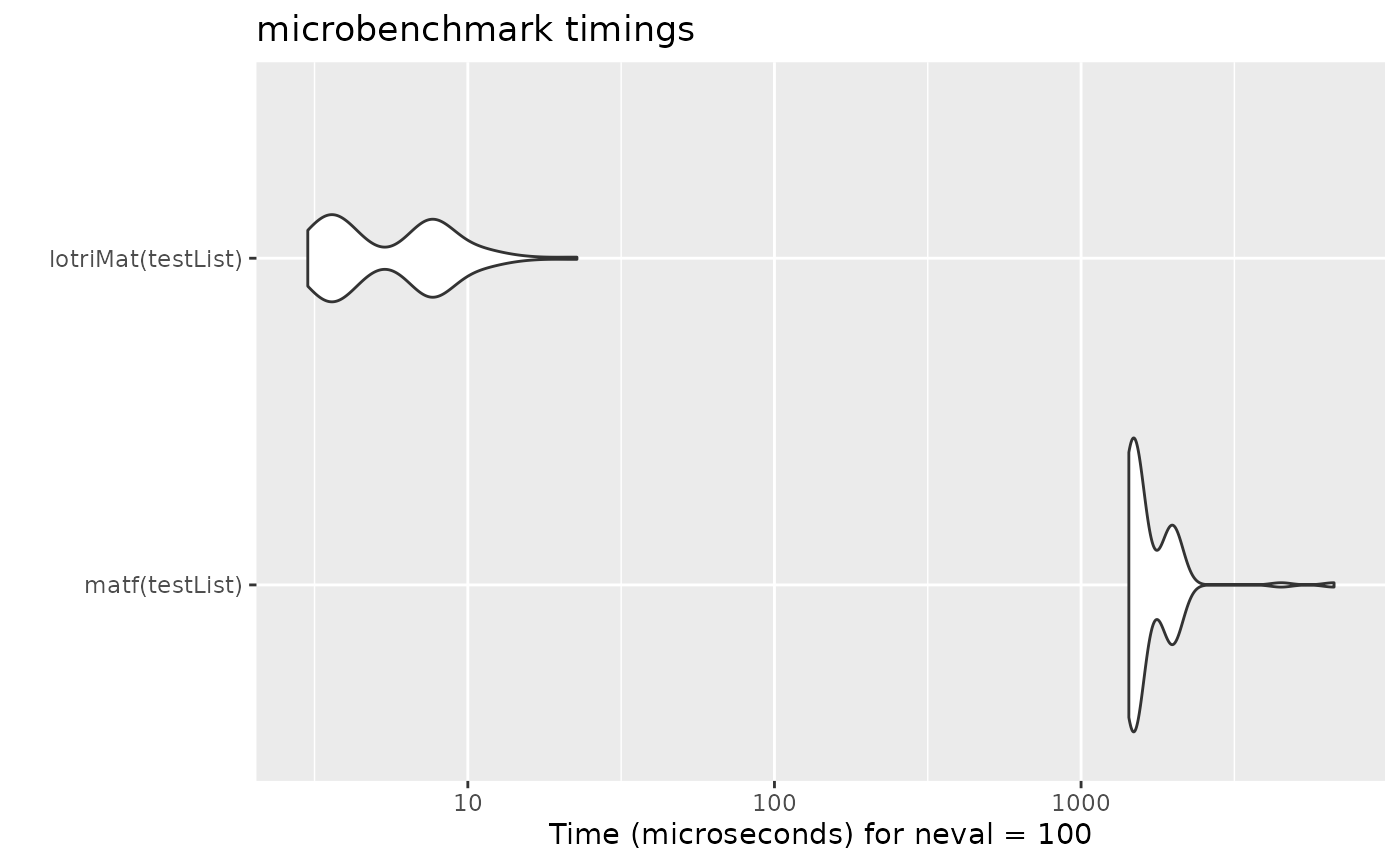
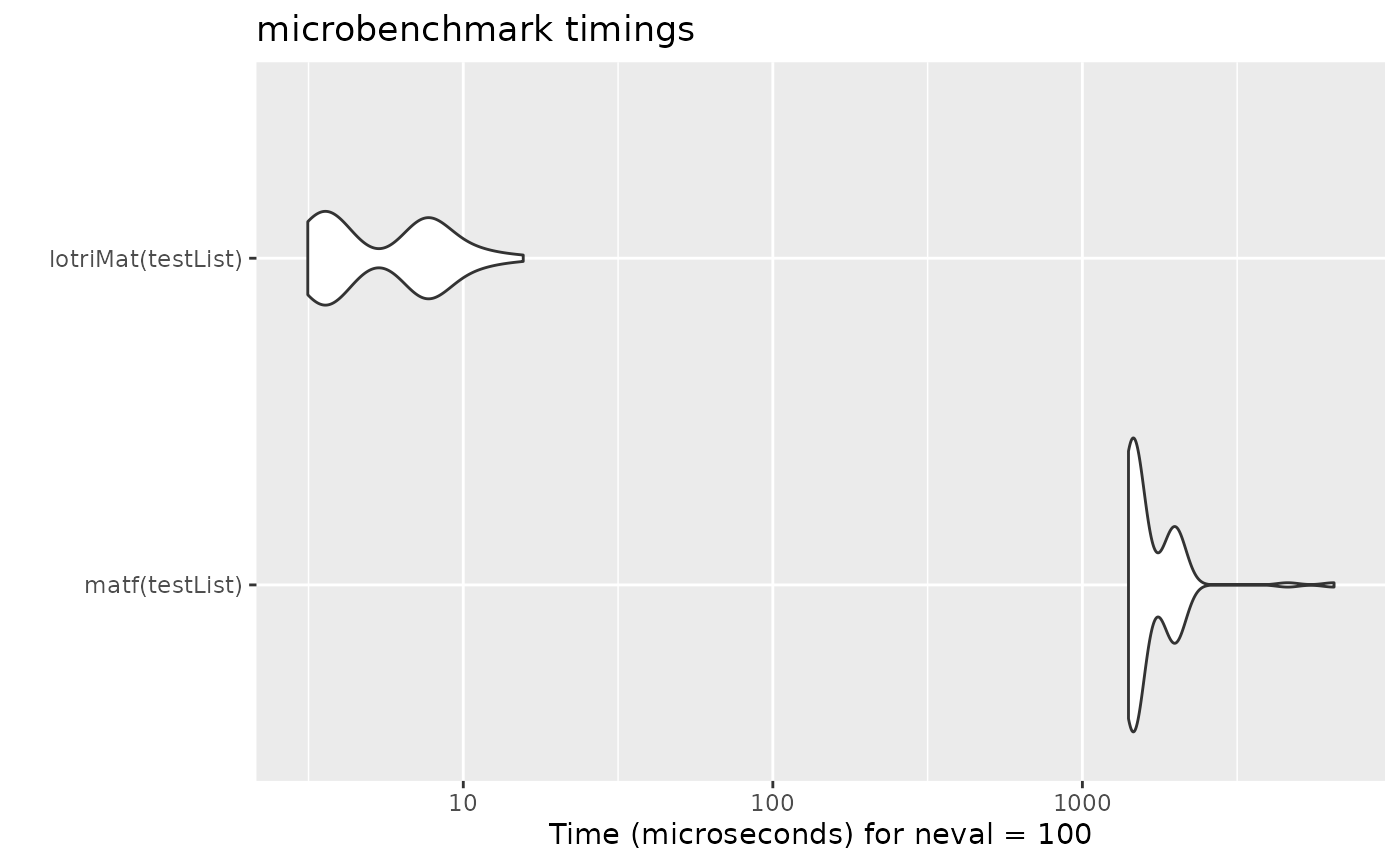
Deploying to gh-pages from @ nlmixr2/lotri@296f739e63f14e0758da3c4d994a8c3ea000be6f 🚀

diff --git a/reference/dot-lotriPointers.html b/reference/dot-lotriPointers.html
@@ -59,34 +59,34 @@
     <div class="sourceCode"><pre class="sourceCode r"><code><span class="r-in"><span></span></span>
 <span class="r-in"><span><span class="fu">.lotriPointers</span><span class="op">(</span><span class="op">)</span></span></span>
 <span class="r-out co"><span class="r-pr">#&gt;</span> $lotriLstToMat</span>
-<span class="r-out co"><span class="r-pr">#&gt;</span> &lt;pointer: 0x7fd6284d62c0&gt;</span>
+<span class="r-out co"><span class="r-pr">#&gt;</span> &lt;pointer: 0x7f637356b2c0&gt;</span>
 <span class="r-out co"><span class="r-pr">#&gt;</span> </span>
 <span class="r-out co"><span class="r-pr">#&gt;</span> $asLotriMat</span>
-<span class="r-out co"><span class="r-pr">#&gt;</span> &lt;pointer: 0x7fd6284d4460&gt;</span>
+<span class="r-out co"><span class="r-pr">#&gt;</span> &lt;pointer: 0x7f6373569460&gt;</span>
 <span class="r-out co"><span class="r-pr">#&gt;</span> </span>
 <span class="r-out co"><span class="r-pr">#&gt;</span> $lotriSep</span>
-<span class="r-out co"><span class="r-pr">#&gt;</span> &lt;pointer: 0x7fd6284d7fb0&gt;</span>
+<span class="r-out co"><span class="r-pr">#&gt;</span> &lt;pointer: 0x7f637356cfb0&gt;</span>
 <span class="r-out co"><span class="r-pr">#&gt;</span> </span>
 <span class="r-out co"><span class="r-pr">#&gt;</span> $lotriAllNames</span>
-<span class="r-out co"><span class="r-pr">#&gt;</span> &lt;pointer: 0x7fd6284d8550&gt;</span>
+<span class="r-out co"><span class="r-pr">#&gt;</span> &lt;pointer: 0x7f637356d550&gt;</span>
 <span class="r-out co"><span class="r-pr">#&gt;</span> </span>
 <span class="r-out co"><span class="r-pr">#&gt;</span> $lotriGetBounds</span>
-<span class="r-out co"><span class="r-pr">#&gt;</span> &lt;pointer: 0x7fd6284d4a00&gt;</span>
+<span class="r-out co"><span class="r-pr">#&gt;</span> &lt;pointer: 0x7f6373569a00&gt;</span>
 <span class="r-out co"><span class="r-pr">#&gt;</span> </span>
 <span class="r-out co"><span class="r-pr">#&gt;</span> $lotriMaxNu</span>
-<span class="r-out co"><span class="r-pr">#&gt;</span> &lt;pointer: 0x7fd6284d7a40&gt;</span>
+<span class="r-out co"><span class="r-pr">#&gt;</span> &lt;pointer: 0x7f637356ca40&gt;</span>
 <span class="r-out co"><span class="r-pr">#&gt;</span> </span>
 <span class="r-out co"><span class="r-pr">#&gt;</span> $isLotri</span>
-<span class="r-out co"><span class="r-pr">#&gt;</span> &lt;pointer: 0x7fd6284d8430&gt;</span>
+<span class="r-out co"><span class="r-pr">#&gt;</span> &lt;pointer: 0x7f637356d430&gt;</span>
 <span class="r-out co"><span class="r-pr">#&gt;</span> </span>
 <span class="r-out co"><span class="r-pr">#&gt;</span> $lotriRcm</span>
-<span class="r-out co"><span class="r-pr">#&gt;</span> &lt;pointer: 0x7fd6284e30f0&gt;</span>
+<span class="r-out co"><span class="r-pr">#&gt;</span> &lt;pointer: 0x7f63735780f0&gt;</span>
 <span class="r-out co"><span class="r-pr">#&gt;</span> </span>
 <span class="r-out co"><span class="r-pr">#&gt;</span> $lotriNearPDc</span>
-<span class="r-out co"><span class="r-pr">#&gt;</span> &lt;pointer: 0x7fd6284ddb70&gt;</span>
+<span class="r-out co"><span class="r-pr">#&gt;</span> &lt;pointer: 0x7f6373572b70&gt;</span>
 <span class="r-out co"><span class="r-pr">#&gt;</span> </span>
 <span class="r-out co"><span class="r-pr">#&gt;</span> $lotriNearPDsexp</span>
-<span class="r-out co"><span class="r-pr">#&gt;</span> &lt;pointer: 0x7fd6284de0b0&gt;</span>
+<span class="r-out co"><span class="r-pr">#&gt;</span> &lt;pointer: 0x7f63735730b0&gt;</span>
 <span class="r-out co"><span class="r-pr">#&gt;</span> </span>
 </code></pre></div>
     </div>

diff --git a/articles/lotri-motivation.html b/articles/lotri-motivation.html
@@ -64,7 +64,7 @@
                         <h4 data-toc-skip class="author">Matthew
 Fidler</h4>
             
-            <h4 data-toc-skip class="date">2025-06-16</h4>
+            <h4 data-toc-skip class="date">2025-07-17</h4>
       
       <small class="dont-index">Source: <a href="https://github.com/nlmixr2/lotri/blob/main/vignettes/lotri-motivation.Rmd" class="external-link"><code>vignettes/lotri-motivation.Rmd</code></a></small>
       <div class="d-none name"><code>lotri-motivation.Rmd</code></div>
@@ -227,9 +227,9 @@ concatenation with <code>lotriMat</code></p>
 <span></span>
 <span><span class="fu"><a href="https://rdrr.io/r/base/print.html" class="external-link">print</a></span><span class="op">(</span><span class="va">mb</span><span class="op">)</span></span>
 <span><span class="co">#&gt; Unit: microseconds</span></span>
-<span><span class="co">#&gt;                expr      min       lq       mean    median       uq      max</span></span>
-<span><span class="co">#&gt;      matf(testList) 1431.710 1471.129 1708.11900 1498.9355 1967.439 6685.829</span></span>
-<span><span class="co">#&gt;  lotriMat(testList)    3.006    3.572    6.13077    5.2745    7.754   22.692</span></span>
+<span><span class="co">#&gt;                expr      min        lq       mean   median        uq      max</span></span>
+<span><span class="co">#&gt;      matf(testList) 1408.988 1451.5880 1689.31541 1475.463 1965.2460 6502.088</span></span>
+<span><span class="co">#&gt;  lotriMat(testList)    3.145    3.5065    6.05928    5.560    7.7345   15.619</span></span>
 <span><span class="co">#&gt;  neval</span></span>
 <span><span class="co">#&gt;    100</span></span>
 <span><span class="co">#&gt;    100</span></span>
